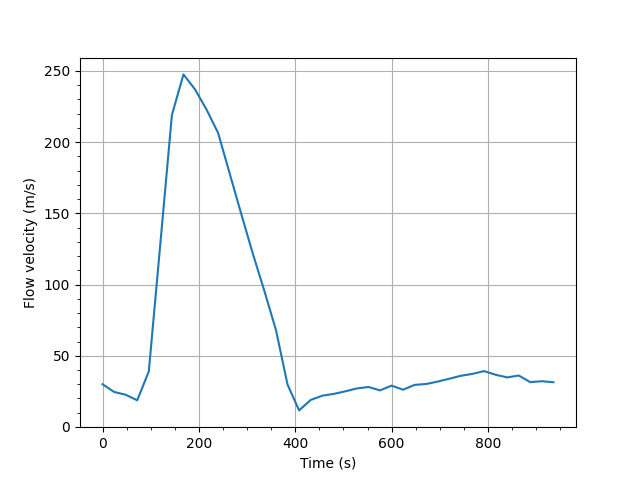
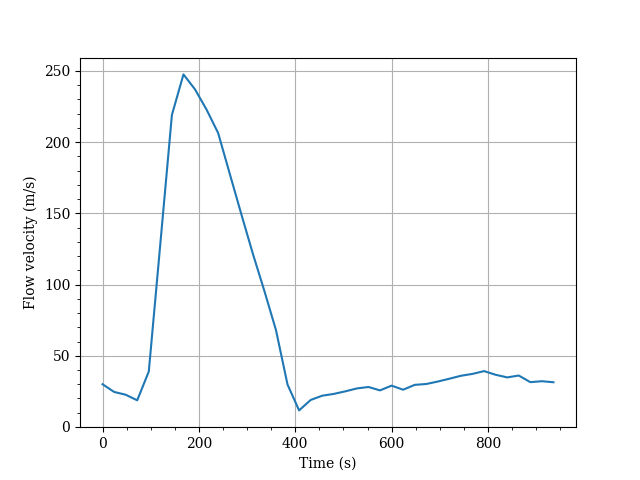
change font family in plots

diff --git a/plot_profile.py b/plot_profile.py
@@ -3,13 +3,15 @@ import numpy as np
 import pandas as pd
 import matplotlib.pyplot as plt
 
+plt.rc('font', family='serif')
+
 file = sys.argv[1]
 
 df = pd.read_table(file, sep=' ', header=None, names=['time', 'Umax'])
 plt.plot(df['time'], df['Umax'])
 plt.grid()
 plt.minorticks_on()
-#plt.xticks(np.arange(df['time'].min(), df['time'].max(), 1.0))
+plt.xticks(np.arange(df['time'].min(), df['time'].max(), 1.0))
 plt.xlabel('Time (s)')
 plt.ylabel('Flow velocity (m/s)')
 plt.savefig(file[:-4] + '.png')

diff --git a/UQ_campaigns/UQAAA/supplement/BoundaryVelocityRatio.py b/UQ_campaigns/UQAAA/supplement/BoundaryVelocityRatio.py
@@ -3,6 +3,7 @@ import numpy as np
 
 from scipy.special import jv
 
+plt.rc('font', family='serif')
 
 dx = 1.0e-4
 h = 1.775e-3 #m, wall thickness
